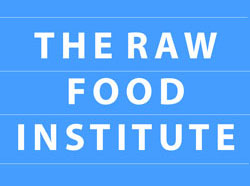
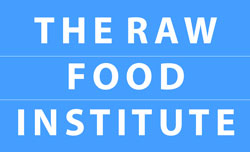
immersion language, scholarship ad, lead copy, scholarship page, events

Changed region(s): [[0.0, 0.3684, 1.0, 0.8947], [0.0, 0.0789, 0.98, 0.3421], [0.14, 0.2632, 0.196, 0.3158]]

diff --git a/immersion.html b/immersion.html
@@ -46,30 +46,30 @@ description: Award winning 7 day immersion program. Learn how to live a raw food
         </div>
       </div>
     </div>
+{% include banner.html %}
 
 
- {% include banner.html %}
 
 
+      <div class="container">
+        <div class="row">
+          <div class="col-sm-12 center"><h1>Live Immersion Program</h2></h1></strong><br>
+          </div>
+        </div>
+      </div>
 
+<div class="headline-yellow">
 <div class="container">
   <div class="row">
     <div class="col-sm-12">
-       
-<h1>Live Immersion Program  </h2></h1></strong>
+       <h2>Are you ready for a transformation? Do you want to love your body more and begin to experience feelings of well-being and energy? At our Immersion Retreats, participants detoxify, energize and rejuvenate while getting world-class raw food
+training — and many experience significant weight loss and other dramatic health improvements. Are YOU ready to live your
+best life?<br><br></h2>
+</div>
 
     </div>
   </div>
 </div>
-    <div class="headline-carrot">
-      <div class="container">
-        <div class="row"><br>
-          <div class="col-sm-12 center"><h2>Cutting edge health information, raw foods training, supported raw food detoxification, advanced healing and health techniques and more.</h2><br>
-          </div>
-        </div>
-      </div>
-    </div>
-
 <div class="container">
   <div class="row">
       <div class="col-sm-8"> 
@@ -97,6 +97,8 @@ description: Award winning 7 day immersion program. Learn how to live a raw food
     </div>
   </div>
 </div>
+
+   
 <div class="headline-yellow">
 <div class="container">
   <div class="row">
@@ -288,6 +290,7 @@ To register online, please select one<option></option>
   <select name="type">
     <option value="shared room accomodations">Shared Room</option>
       <option value="commuter price does not include accomodations{p-455.00}">Commuter</option>
+    <option value="bring-a-friend{p-400.00}">Bring-a-Friend</option>
     <option value="private room upgrade{p+455.00}">Private Room</option>
   </select> <input type="submit" value="Register" class="btn btn-lg btn-outline"></button>
 </form></p></h2>
@@ -302,6 +305,7 @@ To register online, please select one<option></option>
   <select name="type">
     <option value="shared room accomodations">Shared Room</option>
       <option value="commuter price does not include accomodations{p-455.00}">Commuter</option>
+        <option value="bring-a-friend{p-400.00}">Bring-a-Friend</option>
     <option value="private room upgrade{p+455.00}">Private Room</option>
   </select> <input type="submit" value="Register" class="btn btn-lg btn-outline"></button>
 </form></p></h2>

diff --git a/press.html b/press.html
@@ -1,0 +1,87 @@
+---
+layout: default
+title: Videos
+description: Raw Food lifestyle tips, techniques and recipes.
+---
+
+    <div class="navbar navbar-default navbar-static-top">
+      <div class="container">
+        <div class="navbar-header">
+          <button type="button" class="navbar-toggle" data-toggle="collapse" data-target=".navbar-collapse">
+            <span class="icon-bar"></span>
+            <span class="icon-bar"></span>
+            <span class="icon-bar"></span>
+          </button>
+        </div>
+        <div class="navbar-collapse collapse">
+          <ul class="nav navbar-nav">
+            <li><a href="/">Home</a></li>
+            <li><a href="about.html">About</a></li>
+            <li><a href="whyraw.html">Raw + Detox</a></li>
+            <li><a href="blog.html">Blog</a></li>
+            <li class="active"><a href="videos.html">Videos</a></li>
+              <li><a href="shop.html">Shop</a></li>
+             <li><a href="contact.html">Contact</a></li>
+            <li class="dropdown">
+              <a href="#" class="dropdown-toggle" data-toggle="dropdown">Programs<b class="caret"></b></a>
+              <ul class="dropdown-menu">
+               
+                <li><a href="immersion.html">Live Immersion Program</a></li>
+                <li><a href="distancelearning.html">Distance Learning Program</a></li>
+                <li><a href="rawfoodeducator.html">Raw Food Educator Program</a></li>
+              </ul>
+            </li>
+          </ul>
+
+ 
+  {% include social.html %}
+
+        </div>
+      </div>
+    </div>
+
+{% include banner.html %}
+
+<div class="container">
+  <div class="row">
+    <div class="col-md-6">
+
+ 
+      <div class="blog-index">  
+    {% for post in site.categories.videos limit:1 %}
+
+
+        {% assign post = site.posts.first %}
+        {% assign content = post.content %}
+        {% include post_detail.html %}
+    
+
+    {% endfor %}
+
+      </div>
+<hr>
+
+
+     
+         <div class="headline-box-yellow">
+   
+      {% include immersionad.html %}
+
+      </div>
+    </div>
+      <div class="col-md-6">
+
+  <ul class="posts"><blockquote>
+      <p class="lead">Video Archive</p>
+    {% for post in site.posts %}
+    {% if post.categories contains 'videos' %}
+ 
+      <li><a href="{{ relative }}{{ post.url }}">{{ post.title }}</a></li>
+<span class="visible-xs"><hr></span>
+    {% endif %}
+    {% endfor %}</blockquote>
+  </ul>
+  </div>
+  </div>
+</div>
+

diff --git a/_posts/2013-09-17-post-workout-snacks.html b/_posts/2013-09-17-post-workout-snacks.html
@@ -9,10 +9,8 @@ status: publish
 type: post
 published: true
 ---
-<p><img class=" wp-image-2701 alignleft" style="margin: 4px;" alt="post work out snacks" src="http://therawfoodinstitute.com/wp-content/uploads/2013/09/970806_10201312638352463_1716762871_n.jpg" width="432" height="576" />My post workout snacks...
-Aloe vera. Actually this is usually my pre-work out, but today, post. I LOVe this Fatigue fighter + CQ10, for post work out fuel &amp; energy booster. It WORKS &amp; is amazing.
-Blend of: Oranges, peaches, nectarines, ta...</p>
-
+<p><img style="margin: 4px;" alt="post work out snacks" src="http://therawfoodinstitute.com/wp-content/uploads/2013/09/970806_10201312638352463_1716762871_n.jpg" width="432" height="576" />
+<br><br>
 <p>My post workout snacks...<br>
 Aloe vera. Actually this is usually my pre-work out, but today, post. I LOVe this Fatigue fighter + CQ10, for post work out fuel &amp; energy booster. It WORKS &amp; is amazing.
-Blend of:  Oranges, peaches, nectarines, tangerines, papaya, apricot, mango, kumquat, persimmons, carrots, yams, pumpkin, butternut squash, rutabaga, Taurine, Inositol, DMG, HCL, White Panax GInseng, Green coffee bean extract, polyphenols, stevia leaf extract etc. I'll have it for sale on my site soon <a href="http://therawfoodinstitute.com" target="_blank" rel="nofollow nofollow">http://therawfoodinstitute.com</a> I like to share things that work!!!Next up, sprout salad: Professional body builder Wade Lightheart says sprouts are one of the #1 ways he refuels for optimal muscle maintenance.</p>
+Blend of:  Oranges, peaches, nectarines, tangerines, papaya, apricot, mango, kumquat, persimmons, carrots, yams, pumpkin, butternut squash, rutabaga, Taurine, Inositol, DMG, HCL, White Panax GInseng, Green coffee bean extract, polyphenols, stevia leaf extract etc.  I like to share things that work!!!</p>

diff --git a/index.html b/index.html
@@ -48,8 +48,8 @@ description: Are you ready to feel amazing with the raw food lifestyle?
   <div class="row">
     <div class="col-sm-12">
      
-          <h1>The Raw Food Institute promotes healthier, happier living through a plant based, raw food diet. <br></h1><h2>  <span class="text-muted">We offer Live Immersion and online Distance Learning programs to teach you how to live a raw food lifestyle and live your best life.  We also offer a Raw Food Educator Certification program for those who want to become raw food teachers.</span></h2>
-   
+          <h1>Healthier, happier living through a plant based, raw food diet <br></h1><p class="lead">  <span class="text-muted"> Eating a raw food diet, or incorporating more raw foods can help you detoxify, energize and rejuvenate. Many experience significant weight loss and other dramatic health improvements. Getting started with raw food can be challenging, especially if you are in a health crisis. We want to help. We offer online resources including <a href ="http://therawfoodinstitute.com/blog.html" target="_blank">recipes and how-to's</a>, <a href="http://therawfoodinstitute.com/distancelearning.html" target="_blank">online training courses</a> and <a href="http://therawfoodinstitute.com/rawfoodeducator.html" target="_blank">certification programs</a> as well as live, 7 day <a href="http://therawfoodinstitute.com/immersion.html" target="_blank">Immersion Retreats. </span></p>
+  
    
 
           </div>
@@ -90,7 +90,7 @@ description: Are you ready to feel amazing with the raw food lifestyle?
       <div class="row">
      
         <div class="col-sm-12">
-{% include immersionad.html %}
+{% include scholarshipad.html %}
         </div>
       </div>
     </div>

diff --git a/_posts/2014-02-21-winter-comfort-drink.html b/_posts/2014-02-21-winter-comfort-drink.html
@@ -1,0 +1,33 @@
+---
+layout: post
+title: Winter Comfort Drink
+description: Warm up with this raw winter comfort drink.
+categories:
+- articles
+tags:
+- recipes
+- drinks
+status: publish
+type: post
+published: true
+---
+<img class="img-responsive" src="/img/wintercomfortdrink.jpg"><br><br>
+<p>My comfort food since I was a child was warm milk with walnuts in it. Someone once told me this was an eastern European tradition. I don't drink dairy milk anymore because it creates mucous in my ears, but I still crave warm drinks on a wintry day, so I came up with this velvety, milky drink alternative. Warming, comforting, delicious, and takes me back to my childhood memories every time :)</p>
+	<p>Enjoy!</p>
+	<p>Lisa Wilson</p>
+<p class="well">
+<strong>Winter Comfort Drink</strong><br><br>
+
+<strong>1/3 cup coconut mylk</strong> <br>
+<strong>2/3 cup almond mylk</strong><br>
+<strong>1/8 tsp cinnamon</strong><br>
+<strong>1/8 tsp freshly ground nutmeg</strong><br>
+<strong>1/8 tsp fresh vanilla bean, or vanilla extract</strong><br>
+
+
+<strong>Method:</strong><br><br>
+
+Blend on high in Vitamix, until warm or slightly warm on stove.  Shave some fresh nutmeg on top for a pretty touch. Delight & Enjoy!~<br><br>
+
+<p>What is your favorite comforting drink? Share in the comments</p>
+

diff --git a/scholarships.html b/scholarships.html
@@ -54,7 +54,7 @@ description: The Raw Food Institute scholarship program.
            <p>
 
    
-A very limited number of scholarships in the amount of $650 and $250 are available for each Live Immersion Program. These scholarship awards are deducted from the registration price.  Please fill in the form below to apply.  Share with us a few paragraphs about your situation and why you think attending The Raw Food Insitute will help.  Please make sure you are available to attend if you are chosen. Scholarship awards are generally anounced about 45 days before each program begins. Call us anytime if you have a question @ (888) 799-9147</p>
+A very limited number of scholarships in the amount of $1000 and $650 are available for each Live Immersion Program. These scholarship awards are deducted from the registration price.  Please fill in the form below to apply.  Share with us a few paragraphs about your situation and why you think attending The Raw Food Insitute will help.  Please make sure you are available to attend if you are chosen. We begin awarding scholarsihps about 45 days before each program begins. Call us anytime if you have a question @ (888) 799-9147</p>
 
   {% include scholarshipform.html %}
         </div>

diff --git a/_includes/carousel.html b/_includes/carousel.html
@@ -4,18 +4,18 @@
      
       <div class="carousel-inner">
         <div class="item active">
-          <img src="/img/inn.jpg" alt="First slide">
+          <img src="/img/january.jpg" alt="First slide">
           <div class="container">
             <div class="carousel-caption">
 
-              <h1>The Raw Food Institute</h1>
-              <p>World Class Immersion Program in Simsbury, CT.</p>
+              <h1></h1>
+              <p></p>
               <p><a class="btn btn-lg btn-outline" href="#" role="button">Sign up today</a></p>
             </div>
           </div>
         </div>
         <div class="item">
-          <img src="/img/shared.jpg" alt="Second slide">
+          <img src="/img/buffet.jpg" alt="Second slide">
           <div class="container">
             <div class="carousel-caption">
               <h1>Luxurious Accomodations</h1>
@@ -25,7 +25,7 @@
           </div>
         </div>
         <div class="item">
-          <img src="/img/we.jpg" alt="Third slide">
+          <img src="/img/cooking.jpg" alt="Third slide">
           <div class="container">
             <div class="carousel-caption">
               <h1>Gourmet Raw Meals</h1>

diff --git a/_includes/scholarshipad.html b/_includes/scholarshipad.html
@@ -1,5 +1,5 @@
 <h2>The Raw Food Institute Scholarship Program</h2>
 
-<h4>Have you had your eye on The Raw Food Institute's Live Immersion Program, but money was an obstacle?  We are proud to be able to offer two additional scholarships for the January 2014 Live Immersion Program!!  We love our scholarship program, giving back and helping make your dreams come true is one of our favorite things. </h4>
-<p class="lead"><strong>Want to learn more about our scholarship program?</strong> What are you waiting for? <a href="/scholarships.html"><button type="button" class="btn btn-lg btn-outline">Learn More</button></a></h2>
+<h4>Have you had your eye on The Raw Food Institute's Live Immersion Program, but money was an obstacle? We want to help.  We are now accepting sholarships for our spring and summer programs.  The deadline for applications for the April retreat is March 10. What are you waiting for?  </h4>
+<p class="lead"><strong>Want to learn more about our scholarship program?</strong>  <a href="/scholarships.html"><button type="button" class="btn btn-lg btn-outline">Learn More</button></a></h2>
 <br>

diff --git a/shop.html b/shop.html
@@ -114,7 +114,7 @@ description: Shop our online store, our supplements are made from the finest ing
     <div class="col-md-3">
       <img class="thumbnail" src="img/items/rfizyme.jpg">
     </div>
-     <div class="col-md-9"><h2>Enzyme<span class="text-muted"> A dietary supplement for complete digestive support.<br><a href="http://secure.therawfoodinstitute.com/cart?name=Enzyme&category=VTMN&rice=40.00" class="btn btn-default btn-shop" role="button">Add to cart</a></h2>
+     <div class="col-md-9"><h2>Enzyme<span class="text-muted"> A dietary supplement for complete digestive support.<br><a href="http://secure.therawfoodinstitute.com/cart?name=Enzyme&category=VTMN&price=40.00" class="btn btn-default btn-shop" role="button">Add to cart</a></h2>
      </div>
    
               <small><strong>Details</strong> 

diff --git a/css/custom.css b/css/custom.css
@@ -1331,13 +1331,15 @@ fieldset[disabled] .btn-primary.active {
   text-align: center;
 }
 
-.headline {
+.headline-transform {
   background-color: #459dfe;
    margin-top: 20px;
-  margin-bottom: 20px;
+  margin-bottom: 0px;
 
   color: #C5DEFA;
 }
+
+
 
 .headline-blue {
   background-color: #459dfe;
@@ -1347,6 +1349,13 @@ fieldset[disabled] .btn-primary.active {
   color: #ffffff;
 }
 
+.headline-transform {
+  background-color: #459dfe;
+   margin-top: 0px;
+  margin-bottom: 0px;
+
+  color: #ffffff;
+}
 
 .headline-red {
   background-color: #bf4a40;
@@ -1680,8 +1689,8 @@ h6,
 }
 
 .logo {
-  padding-top:20px;
-  padding-bottom:20px;
+  padding-top: 45px;
+  padding-bottom: 45px;
   text-align: center;
 }
 

diff --git a/_includes/events.html b/_includes/events.html
@@ -1,7 +1,3 @@
-<p>
-
-
-	<strong>January 30, 31 &amp; February 1, 2014:&nbsp;</strong> The Raw Living Expo-Lisa Wilson will be hosting &quot;Doctor Day&quot; in Los Angeles, California.&nbsp; The Raw Living Expo is a must-attend event! <a href="http://www.rawlivingexpo.com/2014-tickets/">tickets</a>
 
 <p>
 	<strong>April. 6-12, 2014: </strong>RFI 7-Day Immersion Course<br />
